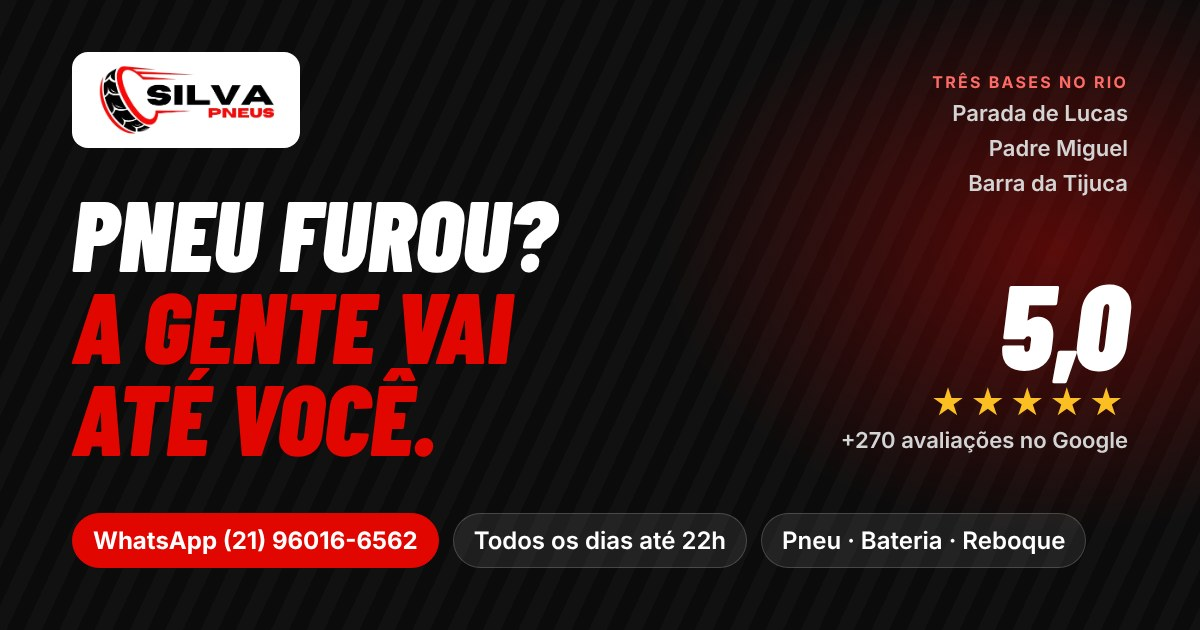
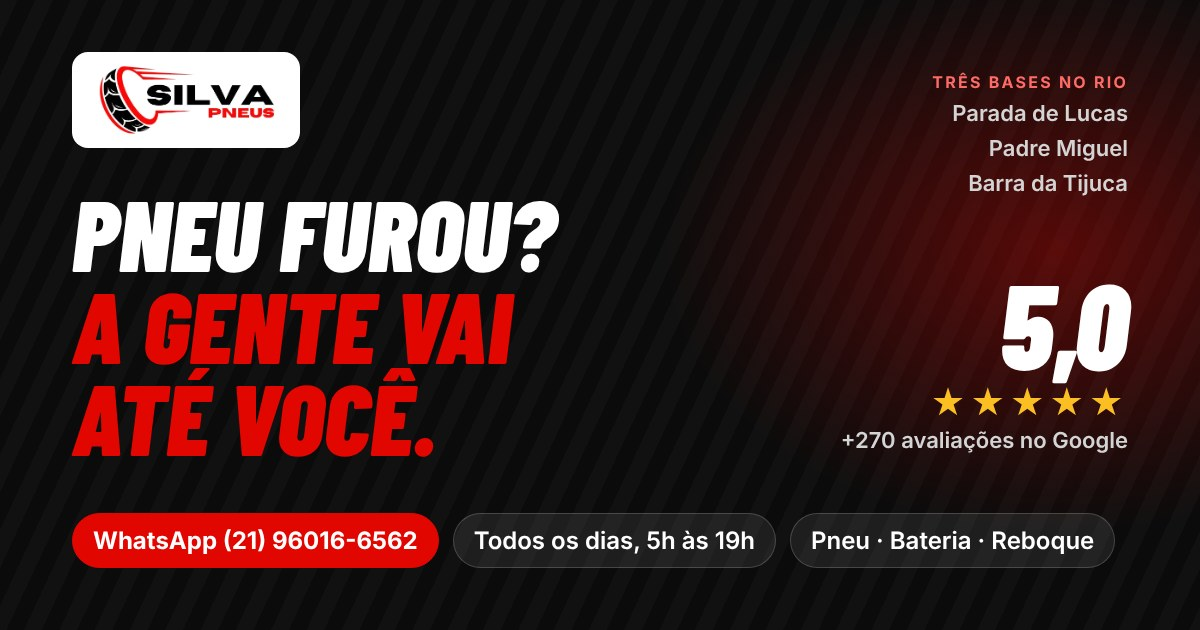
fix: horario de atendimento das 5h as 19h em todo o site
Atualiza textos, selo de socorro, perguntas, metadados, imagem de compartilhamento e dados estruturados (openingHoursSpecification).

Changed region(s): [[0.5242, 0.8143, 0.925, 0.9048]]

diff --git a/src/components/Arte.tsx b/src/components/Arte.tsx
@@ -19,18 +19,21 @@ export function TrilhaPneu({ className = "" }: { className?: string }) {
 }
 
 // Selo de socorro com a seta circular, no estilo do "24h socorro" dos carros.
-export function SeloSocorro({ className = "", horario = "22h" }: { className?: string; horario?: string }) {
+export function SeloSocorro({ className = "", abre = "5h", fecha = "19h" }: { className?: string; abre?: string; fecha?: string }) {
   return (
-    <svg viewBox="0 0 220 220" role="img" aria-label={`Socorro todos os dias até ${horario}`} className={className}>
+    <svg viewBox="0 0 220 220" role="img" aria-label={`Socorro todos os dias, das ${abre} às ${fecha}`} className={className}>
       <circle cx="110" cy="110" r="104" fill="var(--placa)" stroke="var(--tinta)" strokeWidth="6" />
       {/* seta circular passando por cima, aberta embaixo */}
       <path d="M70 152.5 A62 62 0 1 1 150 152.5" fill="none" stroke="var(--tinta)" strokeWidth="12" strokeLinecap="round" />
       <path d="M140.8 160.2 L161.6 157.1 L147.6 140.1 Z" fill="var(--tinta)" />
-      <text x="110" y="82" textAnchor="middle" fontWeight="700" fontSize="20" fill="var(--tinta)" fontFamily="inherit">
-        até
+      <text x="110" y="72" textAnchor="middle" fontWeight="700" fontSize="16" fill="var(--tinta)" fontFamily="inherit">
+        das
       </text>
-      <text x="110" y="128" textAnchor="middle" fontWeight="900" fontSize="50" fill="var(--tinta)" fontFamily="inherit">
-        {horario}
+      <text x="110" y="104" textAnchor="middle" fontWeight="900" fontSize="38" fill="var(--tinta)" fontFamily="inherit">
+        {abre}
+      </text>
+      <text x="110" y="130" textAnchor="middle" fontWeight="800" fontSize="21" fill="var(--tinta)" fontFamily="inherit">
+        às {fecha}
       </text>
       <rect x="38" y="164" width="144" height="34" rx="4" fill="var(--vermelho)" />
       <text x="110" y="189" textAnchor="middle" fontWeight="900" fontSize="22" letterSpacing="2" fill="#fff" fontFamily="inherit">

diff --git a/src/app/layout.tsx b/src/app/layout.tsx
@@ -5,8 +5,8 @@ import { SITE_URL, bases, empresa } from "@/lib/dados";
 import { buscarResumoGoogle } from "@/lib/google";
 
 const descricao =
-  "Borracharia móvel com bases em Parada de Lucas, Padre Miguel e Barra da Tijuca. Troca e conserto de pneu no local, carga de bateria e reboque para carro, moto, caminhão e máquina. Todos os dias até 22h. WhatsApp: (21) 96016-6562.";
-const chamada = "Pneu furou? A gente vai até você. Três bases no Rio, todos os dias até 22h.";
+  "Borracharia móvel com bases em Parada de Lucas, Padre Miguel e Barra da Tijuca. Troca e conserto de pneu no local, carga de bateria e reboque para carro, moto, caminhão e máquina. Todos os dias, das 5h às 19h. WhatsApp: (21) 96016-6562.";
+const chamada = "Pneu furou? A gente vai até você. Três bases no Rio, todos os dias das 5h às 19h.";
 const titulo = "Silva Pneus | Borracharia Móvel no Rio de Janeiro";
 
 export const metadata: Metadata = {
@@ -33,7 +33,7 @@ export const metadata: Metadata = {
         url: "/img/og.jpg",
         width: 1200,
         height: 630,
-        alt: "Silva Pneus, borracharia móvel: pneu furou? A gente vai até você. Três bases no Rio, todos os dias até 22h.",
+        alt: "Silva Pneus, borracharia móvel: pneu furou? A gente vai até você. Três bases no Rio, todos os dias das 5h às 19h.",
       },
     ],
   },
@@ -57,6 +57,12 @@ const montarDadosEstruturados = (nota: number, total: number) => ({
   image: `${SITE_URL}/img/og.jpg`,
   logo: `${SITE_URL}/img/logo.png`,
   telephone: "+55-21-96016-6562",
+  openingHoursSpecification: {
+    "@type": "OpeningHoursSpecification",
+    dayOfWeek: ["Monday", "Tuesday", "Wednesday", "Thursday", "Friday", "Saturday", "Sunday"],
+    opens: "05:00",
+    closes: "19:00",
+  },
   sameAs: [empresa.instagram],
   areaServed: bases.flatMap((b) => b.bairros),
   address: {

diff --git a/src/lib/dados.ts b/src/lib/dados.ts
@@ -10,7 +10,7 @@ export const empresa = {
   telefoneLink: "tel:+5521960166562",
   whatsapp: "5521960166562",
   mensagemWhatsapp: "Olá, preciso de socorro de borracharia!",
-  horario: "Todos os dias até 22h",
+  horario: "Todos os dias, das 5h às 19h",
   instagram: "https://www.instagram.com/borracharia_silvapneus021/",
   instagramUsuario: "@borracharia_silvapneus021",
   google:
@@ -147,7 +147,7 @@ export type Pergunta = { pergunta: string; resposta: string };
 export const perguntas: Pergunta[] = [
   {
     pergunta: "Qual o horário de atendimento?",
-    resposta: "Todos os dias, inclusive fim de semana, até as 22h, nas três bases.",
+    resposta: "Todos os dias, inclusive fim de semana, das 5h às 19h, nas três bases.",
   },
   {
     pergunta: "Quanto tempo vocês levam para chegar?",

diff --git a/src/components/Instagram.tsx b/src/components/Instagram.tsx
@@ -11,7 +11,7 @@ export function Instagram() {
             Veja os atendimentos no Instagram
           </h2>
           <p className="mt-3 max-w-[56ch] text-lg text-asfalto">
-            Fotos e vídeos dos socorros pelas ruas do Rio: carro, moto, caminhão e máquina, de dia e à noite.
+            Fotos e vídeos dos socorros pelas ruas do Rio: carro, moto, caminhão e máquina, todos os dias.
           </p>
           <p className="mt-3 text-lg font-bold break-all">{empresa.instagramUsuario}</p>
         </div>

diff --git a/README.md b/README.md
@@ -1,6 +1,6 @@
 # Silva Pneus - Borracharia Móvel
 
-Site da Borracharia Silva Pneus, borracharia móvel com três bases no Rio de Janeiro (Parada de Lucas, Padre Miguel e Barra da Tijuca), com atendimento todos os dias até 22h.
+Site da Borracharia Silva Pneus, borracharia móvel com três bases no Rio de Janeiro (Parada de Lucas, Padre Miguel e Barra da Tijuca), com atendimento todos os dias das 5h às 19h.
 
 Demo: [borrachariasilva.vercel.app](https://borrachariasilva.vercel.app)
 
